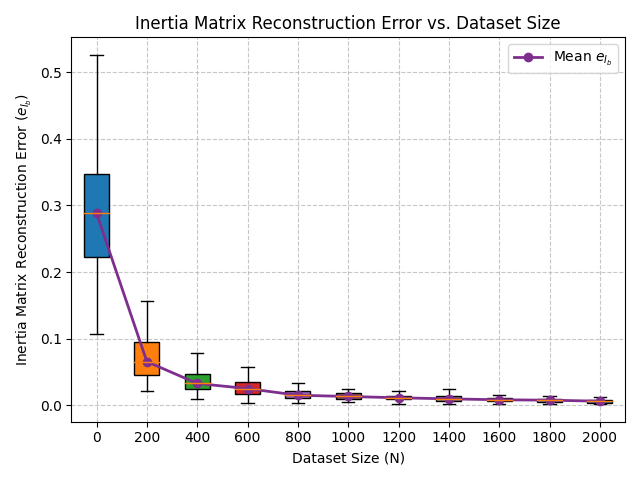
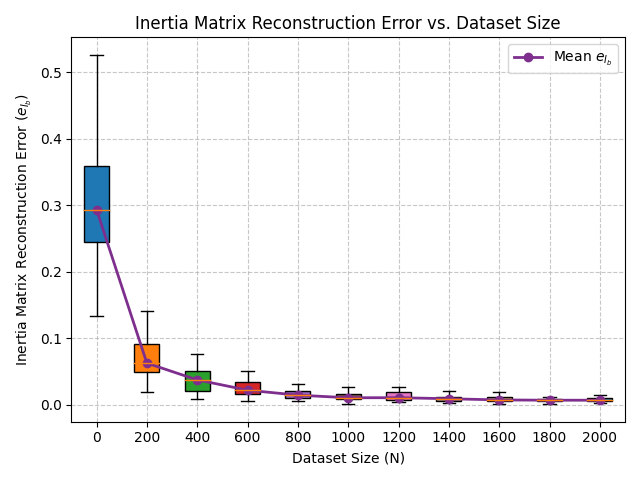
update

diff --git a/main_lie_algebra_adaptive_monte_carlo.py b/main_lie_algebra_adaptive_monte_carlo.py
@@ -12,7 +12,20 @@ import time
 def MonteCarloSimulation():
     totalSim = 50
     step_vector = np.array([0, 200, 400, 600, 800, 1000, 1200, 1400, 1600, 1800, 2000])
-    # step_vector = np.array([0, 200, 400])
+    step_vector = np.array([0, 200, 400])
+
+    # reference trajectory setup
+    v = np.array([2, 0, 0.2])
+    w = np.array([0, 0, 1])
+    config = {'type': TrajType.CONSTANT,
+              'param': {'start_state': np.array([0, 0, 0, 0, 0, 0, 1]),
+                        'linear_vel': v,
+                        'angular_vel': w,
+                        'dt': 0.02,
+                        'nTraj': 301}}
+
+    planner = SE3Planner(config)
+    ref_SE3, ref_twist, dt = planner.get_traj()
     I_error = np.zeros((totalSim, len(step_vector)))
     m_error = np.zeros((totalSim, len(step_vector)))
     times = np.zeros((totalSim, len(step_vector)))
@@ -26,8 +39,8 @@ def MonteCarloSimulation():
             lti_config = {'fixed_param': False,
                             'I': I_star,
                             'm': m_star,
-                            'v': np.array([2, 0, 0.2]),
-                            'w': np.array([0, 0, 1])}
+                            'v': v,
+                            'w': w}
             lti = LinearSE3ErrorDynamics(lti_config)
             if data_size == 0:
                 I_hat = lti.I
@@ -48,7 +61,7 @@ def MonteCarloSimulation():
                         actual_error_multiplier=1,
                         rls_lam=None)
                 ourEnv.reset(rng)
-                ourEnv.prime(data_size, lti.K0, 5, rng, lti)
+                ourEnv.prime(data_size, lti.K0, 5, rng, config, lti)
                 I_hat = ourEnv.I_hat
                 m_hat = ourEnv.m_hat
             times[sim, i] = time.time() - start_time

diff --git a/adaptive_lqr/adaptive.py b/adaptive_lqr/adaptive.py
@@ -139,7 +139,7 @@ class AdaptiveMethod(ABC):
         self.estimated_l = None
         self.estimated_r = None
 
-    def prime(self, num_iterations, static_feedback, excitation, rng, lti):
+    def prime(self, num_iterations, static_feedback, excitation, rng, config, lti):
         """Initialize the adaptive method with rollouts
 
         Must be called after reset() and before step() is called
@@ -150,12 +150,13 @@ class AdaptiveMethod(ABC):
         assert excitation > 0
 
         rng = self._get_rng(rng)
-        config = {'type': TrajType.CONSTANT,
-                  'param': {'start_state': np.array([0, 0, 0, 0, 0, 0, 1]),
-                            'linear_vel': np.array([2, 0, 0.2]),
-                            'angular_vel': np.array([0, 0, 1]),
-                            'dt': lti.dt,
-                            'nTraj': num_iterations}}
+        # config = {'type': TrajType.CONSTANT,
+        #           'param': {'start_state': np.array([0, 0, 0, 0, 0, 0, 1]),
+        #                     'linear_vel': np.array([2, 0, 0.2]),
+        #                     'angular_vel': np.array([0, 0, 1]),
+        #                     'dt': lti.dt,
+        #                     'nTraj': num_iterations}}
+        config['param']['nTraj'] = num_iterations
         planner = SE3Planner(config)
         ref_SE3, ref_twist, dt = planner.generate_constant_traj(config['param'])
 

diff --git a/main_trajectory_comparison.py b/main_trajectory_comparison.py
@@ -53,7 +53,7 @@ def trajectory_comparison():
                                 actual_error_multiplier=1,
                                 rls_lam=None)
     ourEnv.reset(rng)
-    ourEnv.prime(data_size, lti.K0, exitaiton, rng, lti)
+    ourEnv.prime(data_size, lti.K0, exitaiton, rng, config, lti)
     I_hat = ourEnv.I_hat
     m_hat = ourEnv.m_hat
     update_lti_config = {'fixed_param': True,
@@ -79,7 +79,7 @@ def trajectory_comparison():
                       actual_error_multiplier=1,
                       rls_lam=None)
     ofuEnv.reset(rng)
-    ofuEnv.prime(data_size, lti.K0, exitaiton, rng, lti)
+    ofuEnv.prime(data_size, lti.K0, exitaiton, rng, config, lti)
     K = ofuEnv._current_K
     lti.update_controller(K)
     ofu_traj, _ = evaluation(False, lti, config)
@@ -100,7 +100,7 @@ def trajectory_comparison():
                         actual_error_multiplier=1,
                         rls_lam=None)
     tsEnv.reset(rng)
-    tsEnv.prime(data_size, lti.K0, exitaiton, rng, lti)
+    tsEnv.prime(data_size, lti.K0, exitaiton, rng, config, lti)
     K = tsEnv._current_K
     lti.update_controller(K)
     ts_traj, _ = evaluation(False, lti, config)

diff --git a/main_single_test.py b/main_single_test.py
@@ -62,7 +62,7 @@ def single_test():
                                 actual_error_multiplier=1,
                                 rls_lam=None)
     ourEnv.reset(rng)
-    ourEnv.prime(1500, lti.K0, 5, rng, lti)
+    ourEnv.prime(1500, lti.K0, 5, rng, config, lti)
     I_hat = ourEnv.I_hat
     m_hat = ourEnv.m_hat
     lti_config = {'fixed_param': True,
